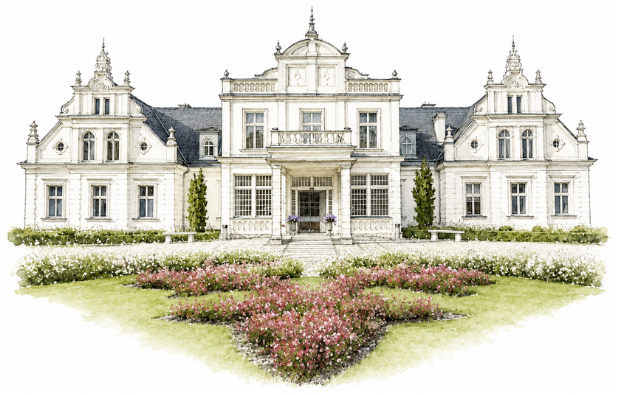
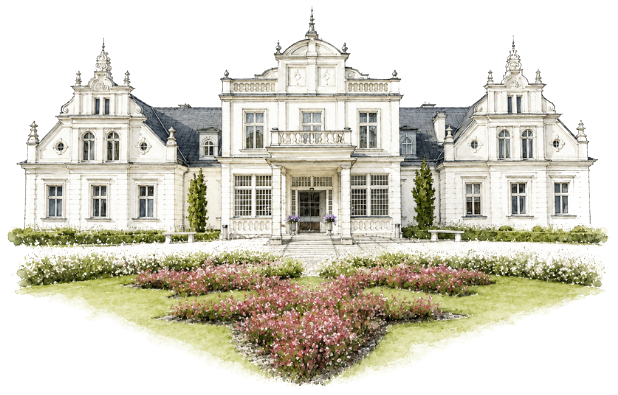
Etap 5: palac z przezroczystym tlem wtopiony w strone, nazwa miejsca bez pinezki, noclegi bez bialego tla, brak dlugich pauz, formularz RSVP z zapisem do Arkusza Google (Apps Script) i fallbackiem SMS/e-mail

diff --git a/app.js b/app.js
@@ -1,4 +1,4 @@
-/* Strona informacyjna wesela — renderuje treść z content.json.
+/* Strona informacyjna wesela: renderuje treść z content.json.
    Nie trzeba tu nic zmieniać; całą treść edytujesz w content.json. */
 (function () {
   "use strict";
@@ -77,7 +77,7 @@
     const names = $("names");
     names.textContent = "";
     names.append(c.para.ona, el("span", { class: "amp", text: "&" }), c.para.on);
-    document.title = `${c.para.ona} & ${c.para.on} — informacje weselne`;
+    document.title = `${c.para.ona} & ${c.para.on} - informacje weselne`;
 
     const h = c.hero || {};
     if (has(h.tlo)) $("hero-bg").style.backgroundImage = `url("${encodeURI(h.tlo)}")`;
@@ -125,6 +125,88 @@
     return fig;
   }
 
+  /** Akwarela bez ramki, wtopiona w tło strony (multiply). */
+  const artwork = (src, alt) => el("figure", { class: "artwork" }, el("img", { src, alt: alt || "", loading: "lazy", decoding: "async" }));
+
+  /* ---------- Formularz RSVP -> Arkusz Google (Apps Script) ---------- */
+  function rsvpForm(r) {
+    const f = r.pola || {};
+    const field = (name, label, input) => el("label", { class: "field" }, [el("span", { class: "field__label", text: label }), input]);
+    const inp = (name, attrs) => el("input", Object.assign({ name, class: "input" }, attrs));
+
+    const form = el("form", { class: "rsvp-form", novalidate: "" });
+    form.append(
+      field("imie", "Imię i nazwisko (jak na zaproszeniu) *", inp("imie", { type: "text", required: "", autocomplete: "name", minlength: "3", placeholder: "np. Anna Kowalska" })),
+      el("fieldset", { class: "field field--choice" }, [
+        el("legend", { class: "field__label", text: "Czy będziecie? *" }),
+        el("label", { class: "choice" }, [el("input", { type: "radio", name: "obecnosc", value: "tak", checked: "" }), el("span", { text: "Tak, będziemy!" })]),
+        el("label", { class: "choice" }, [el("input", { type: "radio", name: "obecnosc", value: "nie" }), el("span", { text: "Niestety nie damy rady" })]),
+      ]),
+    );
+    if (f.osoby !== false) form.append(field("osoby", "Liczba osób (razem z Tobą)", inp("osoby", { type: "number", min: "1", max: "10", value: "1", inputmode: "numeric" })));
+    if (f.towarzyszace !== false) form.append(field("towarzyszace", "Imiona i nazwiska osób towarzyszących", inp("towarzyszace", { type: "text", placeholder: "np. Jan Kowalski" })));
+    if (f.dieta !== false) form.append(field("dieta", "Dieta, alergie", inp("dieta", { type: "text", placeholder: "np. wegetariańska, bez glutenu" })));
+    if (f.nocleg !== false) form.append(el("label", { class: "choice choice--single" }, [el("input", { type: "checkbox", name: "nocleg", value: "1" }), el("span", { text: "Chcemy skorzystać z noclegu w pałacu" })]));
+    if (f.piosenka !== false) form.append(field("piosenka", "Piosenka, przy której na pewno zatańczycie", inp("piosenka", { type: "text" })));
+    if (f.telefon) form.append(field("telefon", "Telefon kontaktowy", inp("telefon", { type: "tel", autocomplete: "tel" })));
+    if (f.wiadomosc !== false) form.append(field("wiadomosc", "Wiadomość dla nas", el("textarea", { name: "wiadomosc", class: "input", rows: "2" })));
+    if (has(r.kod)) form.append(field("kod", "Kod z zaproszenia *", inp("kod", { type: "text", required: "", autocomplete: "off", autocapitalize: "characters" })));
+
+    const status = el("p", { class: "rsvp-form__status", role: "status", "aria-live": "polite" });
+    const submit = el("button", { type: "submit", class: "btn btn--primary", text: "Wyślij potwierdzenie" });
+    form.append(el("div", { class: "actions actions--center" }, submit), status);
+
+    const storeKey = "rsvp:" + (r.endpoint || "");
+    const done = localStorage.getItem(storeKey);
+    if (done) { status.textContent = `Zgłoszenie dla „${done}” zostało już wysłane. Możesz je poprawić, wysyłając ponownie.`; }
+
+    /** Treść zgłoszenia jako tekst (fallback SMS / e-mail, gdy nie ma arkusza). */
+    const asText = (d) => [
+      `Potwierdzenie obecności: ${d.obecnosc === "nie" ? "NIE" : "TAK"}`,
+      `Imię i nazwisko: ${d.imie}`,
+      d.osoby ? `Liczba osób: ${d.osoby}` : "",
+      d.towarzyszace ? `Osoby towarzyszące: ${d.towarzyszace}` : "",
+      d.dieta ? `Dieta: ${d.dieta}` : "",
+      d.nocleg ? "Nocleg: TAK" : "",
+      d.piosenka ? `Piosenka: ${d.piosenka}` : "",
+      d.telefon ? `Telefon: ${d.telefon}` : "",
+      d.wiadomosc ? `Wiadomość: ${d.wiadomosc}` : "",
+    ].filter(Boolean).join("\n");
+
+    form.addEventListener("submit", async (ev) => {
+      ev.preventDefault();
+      const data = Object.fromEntries(new FormData(form).entries());
+      data.imie = String(data.imie || "").trim().replace(/\s+/g, " ");
+      if (data.imie.split(" ").length < 2) { status.textContent = "Podaj imię i nazwisko."; form.imie.focus(); return; }
+      if (has(r.kod) && String(data.kod || "").trim().toUpperCase() !== String(r.kod).toUpperCase()) { status.textContent = "Kod z zaproszenia się nie zgadza."; form.kod.focus(); return; }
+
+      if (!has(r.endpoint)) {
+        /* Brak arkusza: otwórz SMS (telefon) lub e-mail z gotową treścią zgłoszenia. */
+        const txt = encodeURIComponent(asText(data));
+        if (has(r.telefon)) window.location.href = "sms:" + telHref(r.telefon).slice(4) + "?body=" + txt;
+        else if (has(r.email)) window.location.href = "mailto:" + r.email + "?subject=" + encodeURIComponent("Potwierdzenie obecności") + "&body=" + txt;
+        else { status.textContent = "Formularz nie jest jeszcze podłączony. Napisz do nas bezpośrednio."; return; }
+        status.textContent = "Otwieramy wiadomość z gotową treścią. Wystarczy ją wysłać.";
+        localStorage.setItem(storeKey, data.imie);
+        return;
+      }
+
+      submit.disabled = true; status.textContent = "Wysyłamy…";
+      try {
+        /* Apps Script nie zwraca nagłówków CORS dla POST, dlatego tryb no-cors:
+           odpowiedzi nie odczytamy, ale zapis w arkuszu się wykona. Walidacja jest po naszej stronie. */
+        await fetch(r.endpoint, { method: "POST", mode: "no-cors", headers: { "Content-Type": "text/plain;charset=utf-8" }, body: JSON.stringify(data) });
+        localStorage.setItem(storeKey, data.imie);
+        form.replaceChildren(el("p", { class: "rsvp-form__thanks", text: r.podziekowanie || "Dziękujemy! Zapisaliśmy Wasze zgłoszenie." }));
+      } catch (err) {
+        console.error(err);
+        status.textContent = "Nie udało się wysłać. Spróbuj ponownie albo napisz do nas SMS.";
+        submit.disabled = false;
+      }
+    });
+    return form;
+  }
+
   function renderMain(c, start) {
     const app = $("app");
     app.textContent = "";
@@ -147,16 +229,16 @@
       app.append(section("o-nas", "", el("div", { class: "split" }, [text, photo(o.zdjecie, o.zdjecie_podpis)])));
     }
 
-    /* Gdzie — jeden akapit, jedna mapa */
+    /* Gdzie: jeden akapit, jedna mapa, akwarela bez ramki */
     const m = c.miejsce || {};
     if (has(m.nazwa) || has(m.adres) || has(m.opis)) {
       const text = el("div", { class: "split__text" }, [
-        has(m.nazwa) ? el("p", { class: "meta" }, el("strong", { text: "📍 " + m.nazwa })) : "",
-        has(m.adres) ? el("p", { class: "meta", text: m.adres }) : "",
+        has(m.nazwa) ? el("h3", { class: "place__name", text: m.nazwa }) : "",
+        has(m.adres) ? el("p", { class: "meta place__addr", text: m.adres }) : "",
         has(m.opis) ? para(m.opis) : "",
         has(m.adres) ? el("div", { class: "actions" }, linkBtn(mapsUrl([m.nazwa, m.adres].filter(has).join(", ")), "Pokaż na mapie")) : "",
       ]);
-      const body = has(m.zdjecie) ? el("div", { class: "split split--flip" }, [text, photo(m.zdjecie, m.nazwa, true)]) : text;
+      const body = has(m.zdjecie) ? el("div", { class: "split split--flip" }, [text, artwork(m.zdjecie, m.nazwa)]) : text;
       app.append(section("miejsce", m.tytul || "Gdzie?", body));
     }
 
@@ -167,16 +249,19 @@
         plan.pozycje.map((p) => el("li", null, [el("time", { text: p.godzina }), para(p.opis)])))));
     } else $("nav").querySelector('[data-section="plan"]').hidden = true;
 
-    /* RSVP — jednym kliknięciem */
+    /* RSVP: formularz (zapis do arkusza, a bez endpointu SMS/e-mail z gotową treścią) */
     const r = c.rsvp || {};
-    if (has(r.link_tak) || has(r.link_nie) || has(r.telefon) || has(r.email) || has(r.tekst) || has(r.wstep)) {
+    if (has(r.endpoint) || has(r.link_tak) || has(r.link_nie) || has(r.telefon) || has(r.email) || has(r.tekst) || has(r.wstep)) {
       const termin = has(r.termin) ? parseLocal(r.termin) : null;
       const body = has(r.sms_tekst) ? encodeURIComponent(r.sms_tekst) : "";
+      const showForm = r.formularz !== false;
       const btns = [];
-      if (has(r.link_tak)) btns.push(linkBtn(r.link_tak, "Będę!", true));
-      if (has(r.link_nie)) btns.push(linkBtn(r.link_nie, "Niestety nie dam rady"));
+      if (!showForm) {
+        if (has(r.link_tak)) btns.push(linkBtn(r.link_tak, "Będę!", true));
+        if (has(r.link_nie)) btns.push(linkBtn(r.link_nie, "Niestety nie dam rady"));
+      }
       if (has(r.telefon)) {
-        btns.push(linkBtn("sms:" + telHref(r.telefon).slice(4) + (body ? "?body=" + body : ""), "Potwierdź SMS-em", !btns.length));
+        btns.push(linkBtn("sms:" + telHref(r.telefon).slice(4) + (body ? "?body=" + body : ""), "Potwierdź SMS-em", !btns.length && !showForm));
         btns.push(linkBtn(telHref(r.telefon), "Zadzwoń"));
       }
       if (has(r.email)) btns.push(linkBtn("mailto:" + r.email + "?subject=" + encodeURIComponent("Potwierdzenie obecności") + (body ? "&body=" + body : ""), "Napisz e-mail"));
@@ -184,7 +269,11 @@
         has(r.wstep) ? para(r.wstep) : "",
         termin ? el("p", { class: "meta" }, ["Potwierdźcie swoją obecność do ", el("strong", { text: DATE_FMT.format(termin) }), "."]) : "",
         has(r.tekst) ? para(r.tekst) : "",
-        btns.length ? el("div", { class: "actions actions--center" }, btns) : "",
+        showForm ? rsvpForm(r) : "",
+        btns.length ? el("div", { class: "rsvp__alt" }, [
+          showForm ? el("p", { class: "meta", text: "Wolisz inaczej? Napisz lub zadzwoń:" }) : "",
+          el("div", { class: "actions actions--center" }, btns),
+        ]) : "",
       ])));
     } else $("nav").querySelector('[data-section="rsvp"]').hidden = true;
 
@@ -210,7 +299,7 @@
       ])));
     }
 
-    /* Przydatne informacje — każdy punkt rozwijany */
+    /* Przydatne informacje: każdy punkt rozwijany */
     const inf = c.informacje || {};
     const items = (inf.pozycje || []).filter((q) => has(q.pytanie) && has(q.odpowiedz));
     if (items.length) {
@@ -222,7 +311,7 @@
         ])))));
     } else $("nav").querySelector('[data-section="informacje"]').hidden = true;
 
-    /* Kontakt — Para Młoda */
+    /* Kontakt: Para Młoda */
     const k = c.kontakt || {};
     if (has(k.osoby)) {
       app.append(section("kontakt", k.tytul || "Kontakt", el("div", null, [

diff --git a/styles.css b/styles.css
@@ -143,6 +143,14 @@ img { max-width: 100%; display: block; }
   color: var(--muted); font-style: italic;
 }
 
+/* Akwarela bez ramki, wtopiona w tło strony */
+.artwork { margin: 0; }
+.artwork img { width: 100%; height: auto; mix-blend-mode: multiply; filter: saturate(.95); }
+
+/* Nazwa miejsca: kapitaliki ze złotą kreską zamiast ikony */
+.place__name { font-family: var(--font-caps); font-size: .95rem; letter-spacing: .2em; text-transform: uppercase; padding-left: .9rem; border-left: 1px solid var(--gold); line-height: 1.4; }
+.place__addr { margin: .35rem 0 0 .95rem !important; }
+
 /* Odliczanie */
 .countdown { display: flex; justify-content: center; gap: 1.6rem; margin-top: 1.4rem; }
 .countdown__item { text-align: center; min-width: 3rem; }
@@ -177,11 +185,34 @@ img { max-width: 100%; display: block; }
 .rsvp p { margin: .5rem 0 0; }
 .rsvp .meta strong { font-weight: 500; }
 .rsvp .actions { margin-top: 1.4rem; }
+.rsvp__alt { margin-top: 2rem; padding-top: 1.2rem; border-top: 1px dotted var(--frame); }
+.rsvp__alt .actions { margin-top: .8rem; }
+
+/* Formularz RSVP */
+.rsvp-form { text-align: left; margin-top: 1.6rem; display: grid; gap: 1rem; }
+.field { display: grid; gap: .35rem; margin: 0; padding: 0; border: 0; min-width: 0; }
+.field__label { font-family: var(--font-caps); font-size: .62rem; letter-spacing: .18em; text-transform: uppercase; color: var(--muted); }
+.input {
+  width: 100%; font: inherit; color: var(--text); background: transparent;
+  border: 0; border-bottom: 1px solid var(--line); padding: .45rem 0; border-radius: 0; outline: none;
+  transition: border-color .15s;
+}
+.input:focus { border-bottom-color: var(--text); }
+textarea.input { resize: vertical; min-height: 2.6rem; }
+.field--choice { display: flex; flex-wrap: wrap; gap: .4rem 1.6rem; align-items: center; }
+.field--choice legend { padding: 0; margin-bottom: .3rem; width: 100%; }
+.choice { display: inline-flex; align-items: center; gap: .5rem; cursor: pointer; }
+.choice input { accent-color: var(--text); width: 1rem; height: 1rem; margin: 0; }
+.choice--single { margin-top: .2rem; }
+.rsvp-form .actions { margin-top: .6rem; }
+.rsvp-form__status { text-align: center; color: var(--muted); font-style: italic; min-height: 1.4em; margin: 0 !important; }
+.rsvp-form__thanks { text-align: center; font-size: 1.3rem; font-style: italic; padding: 1.5rem 0; }
+.btn:disabled { opacity: .5; cursor: default; }
 
 /* Noclegi */
 .cards { display: grid; gap: 1.2rem; }
 @media (min-width: 640px) { .cards { grid-template-columns: repeat(auto-fit, minmax(16rem, 1fr)); } }
-.card { padding: 1.2rem; background: var(--paper); border: 1px dotted var(--frame); }
+.card { padding: 1.2rem 0; border-top: 1px dotted var(--frame); border-bottom: 1px dotted var(--frame); }
 .card h3 { font-family: var(--font-caps); font-size: .85rem; letter-spacing: .18em; text-transform: uppercase; }
 .card p { margin: .4rem 0 0; }
 .card .meta { color: var(--muted); }

diff --git a/index.html b/index.html
@@ -21,7 +21,7 @@
     <a href="#kontakt" class="nav__link" data-section="kontakt">Kontakt</a>
   </nav>
 
-  <!-- Pełnoekranowa „okładka” — przypięta; treść poniżej nasuwa się na nią -->
+  <!-- Pełnoekranowa okładka, przypięta; treść poniżej nasuwa się na nią -->
   <header class="hero" id="top">
     <div class="hero__bg" id="hero-bg" aria-hidden="true"></div>
     <div class="hero__content">

diff --git a/tools/make_palace_transparent.py b/tools/make_palace_transparent.py
@@ -1,0 +1,58 @@
+"""Zamienia białe TŁO akwareli pałacu na przezroczystość.
+
+Przezroczyste staje się wyłącznie tło połączone z krawędziami obrazu (flood-fill),
+więc jasne ściany i okna wewnątrz budynku pozostają kryjące.
+
+Użycie:  python tools/make_palace_transparent.py
+Wejście/wyjście: img/palac.png
+"""
+from collections import deque
+from pathlib import Path
+
+from PIL import Image, ImageFilter
+
+SRC = Path(__file__).resolve().parents[1] / "img" / "palac.png"
+BG_THRESHOLD = 232   # piksel jaśniejszy niż to (0-255) może być tłem
+SOFT = 1.2           # rozmycie krawędzi maski (px) - miękkie przejście akwareli
+
+
+def background_mask(lum: Image.Image) -> Image.Image:
+    """255 tam, gdzie tło (jasne i połączone z brzegiem), 0 wszędzie indziej."""
+    w, h = lum.size
+    px = lum.load()
+    seen = bytearray(w * h)
+    q = deque()
+    for x in range(w):
+        q.append((x, 0)); q.append((x, h - 1))
+    for y in range(h):
+        q.append((0, y)); q.append((w - 1, y))
+    while q:
+        x, y = q.popleft()
+        i = y * w + x
+        if seen[i] or px[x, y] < BG_THRESHOLD:
+            continue
+        seen[i] = 1
+        if x > 0: q.append((x - 1, y))
+        if x < w - 1: q.append((x + 1, y))
+        if y > 0: q.append((x, y - 1))
+        if y < h - 1: q.append((x, y + 1))
+    return Image.frombytes("L", (w, h), bytes(255 if s else 0 for s in seen))
+
+
+def main() -> None:
+    im = Image.open(SRC).convert("RGB")
+    lum = im.convert("L")
+    bg = background_mask(lum)
+    hard = bg.point(lambda v: 255 - v).filter(ImageFilter.GaussianBlur(SOFT))
+    # Przy krawędzi tła mieszamy alfę wg jasności, żeby zachować rozmycia akwareli.
+    soft = lum.point(lambda v: 0 if v >= 250 else 255 if v <= 200 else int(255 * (250 - v) / 50))
+    edge = bg.filter(ImageFilter.GaussianBlur(2.5)).point(lambda v: 255 if 8 < v < 247 else 0)
+    alpha = Image.composite(soft, hard, edge)
+    out = im.copy()
+    out.putalpha(alpha)
+    out.save(SRC, optimize=True)
+    print(f"Zapisano {SRC} ({out.mode}); przezroczystych px: {sum(1 for a in alpha.getdata() if a == 0)}")
+
+
+if __name__ == "__main__":
+    main()

diff --git a/README.md b/README.md
@@ -199,7 +199,64 @@ Na trzeciej karcie zaproszenia jest greige'owe pole (`#b6b3a2`) przeznaczone na 
 > Teksty z prefiksem `[DO UZUPEŁNIENIA]` / `[DO POTWIERDZENIA]` to propozycje planera — na
 > stronie mają żółtą etykietę, dopóki prefiks nie zostanie usunięty.
 
-## Potwierdzenie obecności jednym kliknięciem — opinia i integracja
+## Potwierdzenie obecności: formularz na stronie, zapis do arkusza (Excel)
+
+### Etap 5 (prompt)
+
+> (1) W sekcji „Gdzie?” akwarela pałacu ma białe tło: usuń je i wtóp obraz w tło strony.
+> (2) Pinezka przy nazwie pałacu wygląda sztucznie: nadaj elegancki styl albo usuń i zostaw sam
+> napis. (3) „Noclegi” mają białe tło pod treścią: popraw. (4) Nie używaj długich pauz „—” w
+> treści; zamień na krótkie lub przeredaguj. (5) Potwierdzenia obecności mają się same zapisywać
+> do Excela albo pliku, nie chcę spisywać ręcznie. Na stronie referencyjnej był kod dla
+> osoby/pary; u nas wystarczy wymagać imienia i nazwiska. Prosty mechanizm do spisu gości.
+
+Co z tego wynikło: `img/palac.png` ma przezroczyste tło (`tools/make_palace_transparent.py`,
+flood-fill od krawędzi, wnętrze budynku nietknięte) i jest wyświetlany bez ramki z
+`mix-blend-mode: multiply`; nazwa pałacu to kapitaliki ze złotą kreską z lewej; karty noclegów
+nie mają białego tła; długie pauzy usunięte z całej treści; **na stronie jest formularz RSVP**,
+a zgłoszenia lądują w Arkuszu Google (eksport do .xlsx jednym kliknięciem).
+
+### Jak działa formularz
+
+Pola: **imię i nazwisko (wymagane, min. dwa słowa)**, Tak / Nie, liczba osób, osoby
+towarzyszące, dieta, nocleg, piosenka, wiadomość; opcjonalnie telefon i **kod z zaproszenia**
+(`rsvp.kod`, jeden wspólny, np. `TURZNO2027`; pusty = bez kodu). Które pola pokazywać, ustawiasz
+w `rsvp.pola`. Jedno nazwisko = jeden wiersz: ponowne zgłoszenie tej samej osoby **nadpisuje**
+poprzednie, więc goście mogą sami poprawiać dane, a lista nie ma duplikatów.
+
+| Stan `rsvp.endpoint` | Co robi „Wyślij potwierdzenie” | Gdzie ląduje |
+|---|---|---|
+| **ustawiony** (adres Apps Script) | POST JSON do arkusza | Arkusz Google, karta `RSVP` |
+| pusty (jak teraz) | otwiera SMS (`rsvp.telefon`) lub e-mail (`rsvp.email`) z gotową treścią zgłoszenia | Wasz telefon / skrzynka |
+
+Pod formularzem zawsze są też przyciski „Wolisz inaczej? SMS / Zadzwoń” dla osób, które nie
+chcą nic wypełniać. `rsvp.formularz: false` wyłącza formularz i przywraca samą wersję z przyciskami.
+
+### Podłączenie arkusza (ok. 10 minut, 0 zł)
+
+1. Załóż nowy **Arkusz Google** (np. „Goście 2027”) na prywatnym koncie.
+2. **Rozszerzenia → Apps Script**, usuń przykładowy kod, wklej zawartość
+   `tools/rsvp_apps_script.gs`. Jeśli chcesz kod z zaproszenia, wpisz go w `KOD` (i ten sam w
+   `content.json` → `rsvp.kod`). Zapisz.
+3. **Wdróż → Nowe wdrożenie → typ: Aplikacja internetowa**; *Uruchamiaj jako: Ja*; *Kto ma
+   dostęp: Każdy*. Zatwierdź uprawnienia (jednorazowo). Skopiuj adres kończący się na `/exec`.
+4. Wklej go do `content.json` → `rsvp.endpoint`. Commit. Gotowe: pierwsze zgłoszenie samo
+   utworzy kartę `RSVP` z nagłówkami.
+5. Excel: **Plik → Pobierz → Microsoft Excel (.xlsx)**. Arkusz możesz też udostępnić Agnieszce
+   do podglądu na telefonie (aplikacja Arkusze).
+
+Bezpieczeństwo i granice: adres `/exec` jest publiczny, ale przyjmuje tylko POST z danymi
+zgłoszenia i nie zwraca zawartości arkusza. Ochroną przed żartami jest opcjonalny wspólny kod
+z zaproszenia oraz nadpisywanie po nazwisku (złośliwe wpisy łatwo usunąć). Limity Apps Script
+(20 000 wywołań/dzień) są dla wesela bez znaczenia. Adres QR pozostaje niezależny od tego
+mechanizmu.
+
+Dlaczego nie kod dla każdej pary jak na stronie referencyjnej: wymaga wygenerowania i
+wydrukowania unikalnych kodów na każdym zaproszeniu, a zaproszenia są już zaprojektowane;
+wymaga też listy gości przed startem strony. Nazwisko + wspólny kod daje 95 % tej wartości
+za 5 % pracy.
+
+## Wcześniejsza analiza: RSVP jednym kliknięciem (Google Forms)
 
 **Tak, warto.** Z doświadczenia: im mniej kroków, tym wyższy odsetek odpowiedzi w terminie;
 przy telefonicznym RSVP typowo 30–40 % gości trzeba dopytywać. Strona jest statyczna (GitHub
